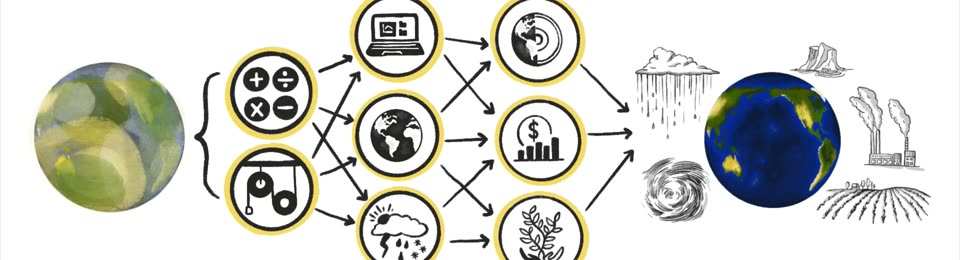
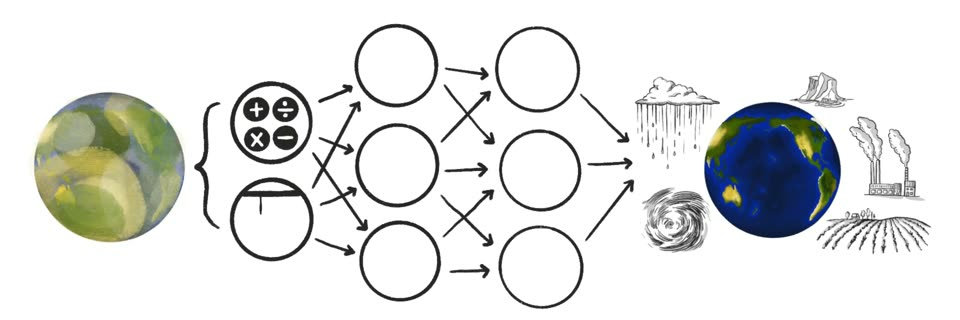
feat(home): rework feature cards + drop recent-pubs to cut scrolling
- uniform 16:9 media tiles across all three cards (even row)
- Current Projects video now 'contain' (no top cutoff) + re-encoded with
  restored headroom
- replace Whiteboard Animations card with Members (group photo -> /group/)
- replace News card with Publications (-> /publications/)
- remove the recent-publications section from the home page; only news
  remains at the bottom (less scrolling)

Changed region(s): [[0.0312, 0.0, 0.9688, 1.0]]

diff --git a/_sass/_custom.scss b/_sass/_custom.scss
@@ -155,25 +155,36 @@ h6,
   margin-bottom: 2rem;
 }
 
-// Looping hand-drawn AI-for-Earth animation on the "Current Projects" card
-// (replaces the icon circle). The clip has a white background, so a white panel
-// keeps it clean in light mode and intentional in dark mode.
-.lab-feature--video {
-  justify-content: flex-start;
-}
-.lab-feature-video {
+// Uniform media tile at the top of each feature card (same 16:9 box across all
+// three so the row stays even): photo fills it (cover), the AI-for-Earth clip
+// fits inside it (contain — no cropping), the publications card centers an icon.
+// White panel keeps the white-background clip clean in light and dark mode.
+.lab-feature-media {
   width: 100%;
+  aspect-ratio: 16 / 9;
   margin: 0 0 1rem;
   border-radius: 8px;
   overflow: hidden;
-  line-height: 0;
   background: #fff;
-  box-shadow: 0 1px 4px rgba(0, 0, 0, 0.08);
+  display: flex;
+  align-items: center;
+  justify-content: center;
 }
-.lab-feature-video video {
-  display: block;
+.lab-feature-media img {
   width: 100%;
-  height: auto;
+  height: 100%;
+  object-fit: cover;
+  display: block;
+}
+.lab-feature-media--video video {
+  width: 100%;
+  height: 100%;
+  object-fit: contain; // show the whole wide diagram, never cropped
+  display: block;
+}
+.lab-feature-media--icon i {
+  font-size: 2.8rem;
+  color: var(--bu-red);
 }
 
 // ===========================================================================